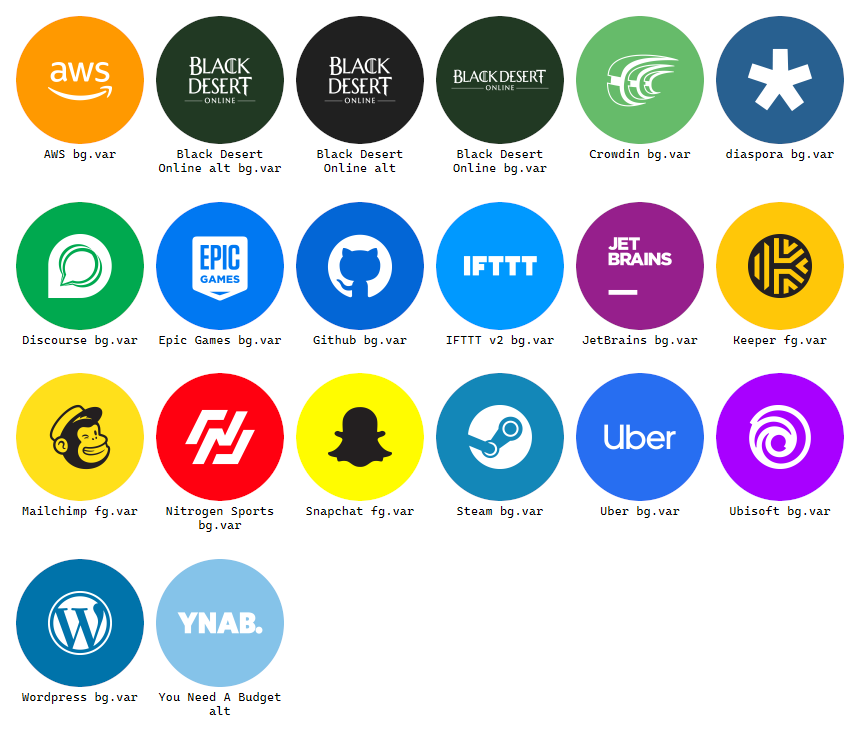
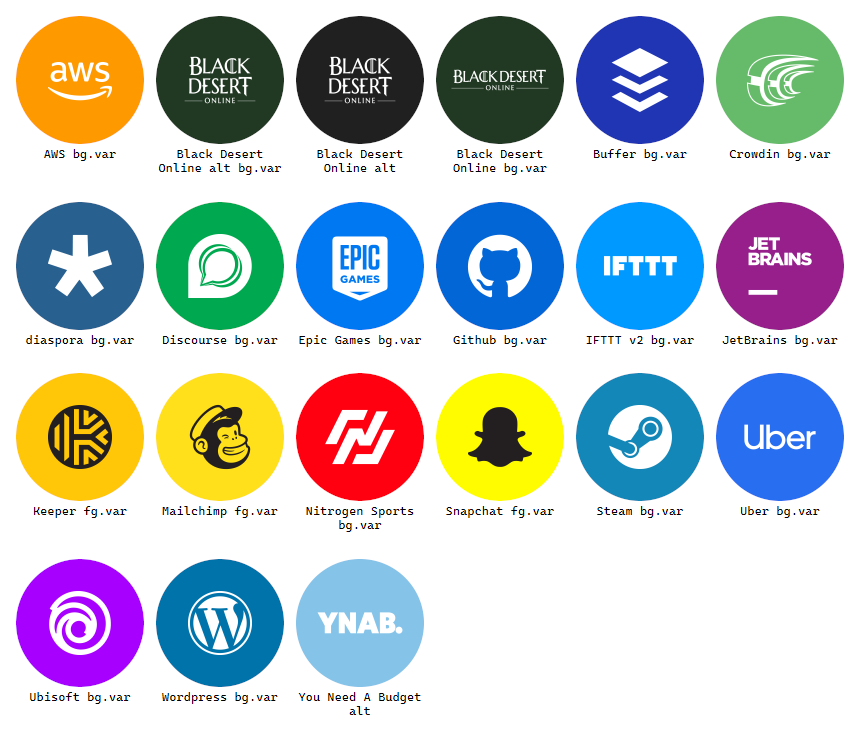
Update previews, full_preview is now embed as webp on MD file instead of PNG

diff --git a/full_preview.md b/full_preview.md
@@ -4,7 +4,7 @@
 
 **[Browse site and app icons](/PNG)** • **[Download icon pack](../../releases/latest)**
 
-[![Site and app icons](full_preview.png)](/PNG)
+[![Site and app icons](full_preview.webp)](/PNG)
 
 ## Generic
 
